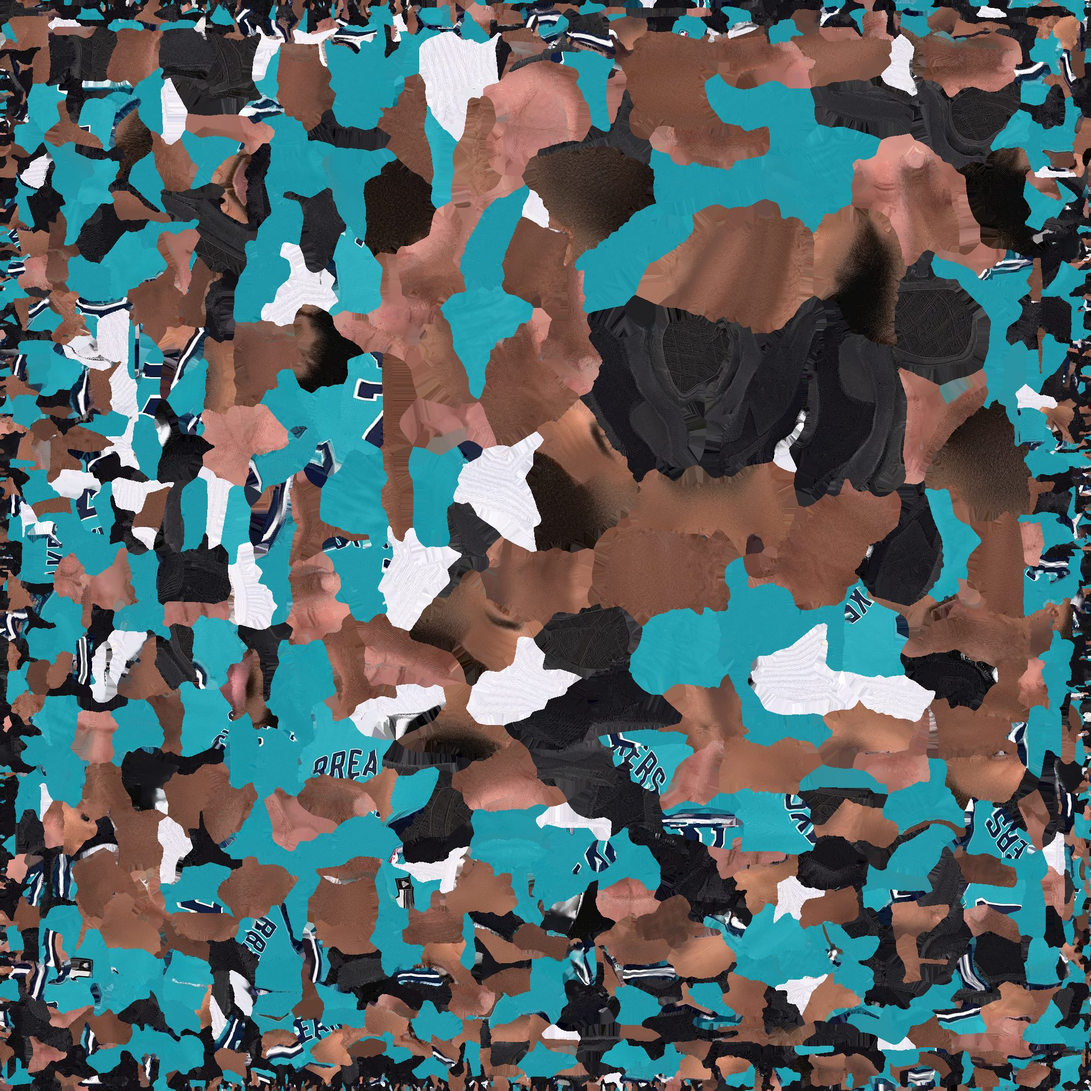
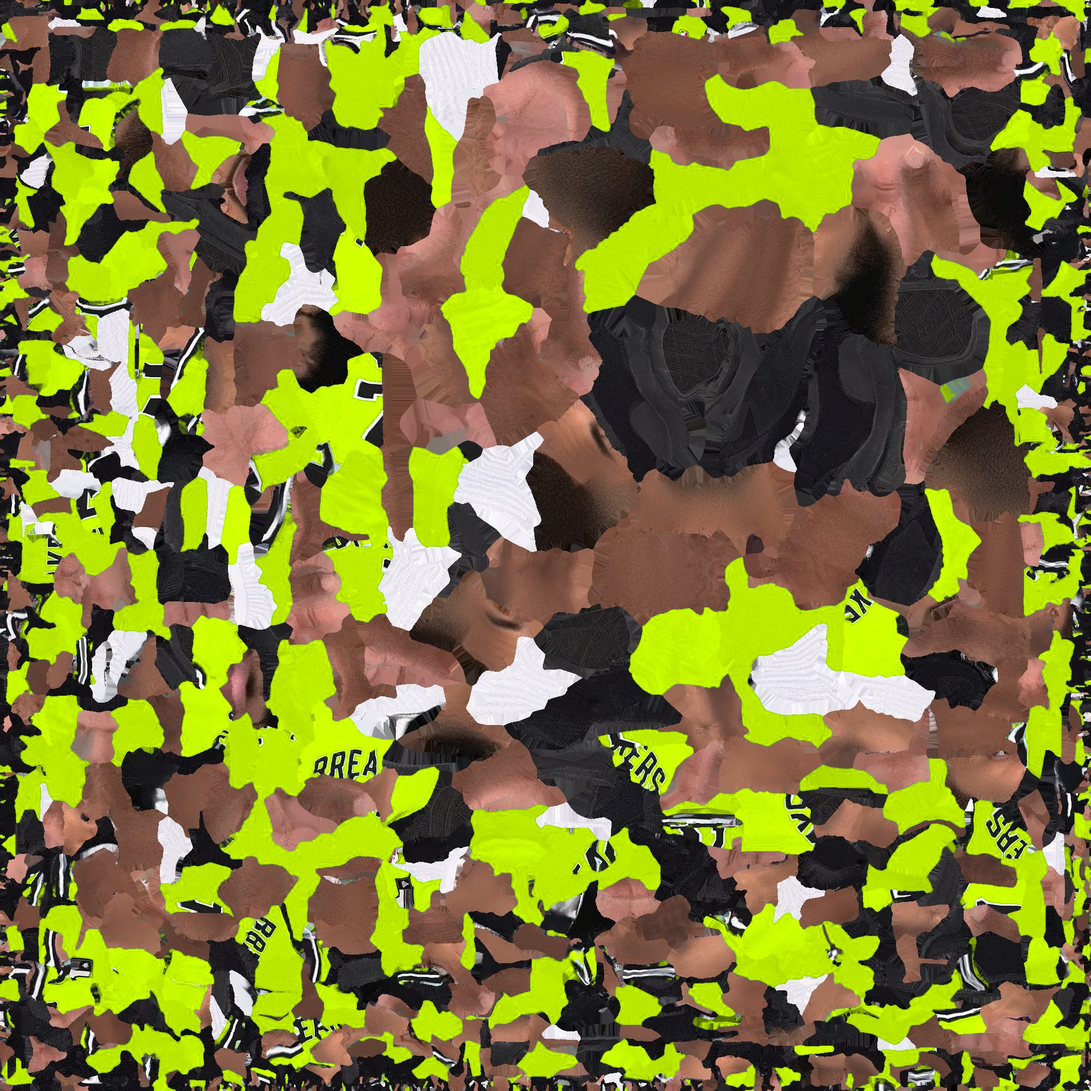
Hoops: Livewire branding (yellow and black)
Your team becomes Livewire: brand yellow #CBFE00 and black across the UI
accent, buttons, scorebug and player ring; Livewire's wordmark on the
title screen, LED boards, sidelines and baseline; its mark at centre
court and as the team badge; a black key and apron. Morrow's kit, the
cover art and the portrait are recoloured from the old teal kit to
yellow and black (the chest lettering still reads the old team name).

Claude-Session: https://claude.ai/code/session_01A6QokmjSrtzSTHC6R9iMnj

diff --git a/hardwood/js/arena.js b/hardwood/js/arena.js
@@ -4,6 +4,7 @@
 import * as THREE from 'three';
 import { Reflector } from 'three/addons/objects/Reflector.js';
 import { RoundedBoxGeometry } from 'three/addons/geometries/RoundedBoxGeometry.js';
+import { BRAND } from './data.js';
 
 export const COURT = {
   halfW: 7.62,           // sideline x
@@ -93,6 +94,20 @@ const ReflectShader = {
     }`,
 };
 
+// draw the Livewire wordmark centred at (cx, cy), h pixels tall
+let _wm = null;
+function drawWordmark(ctx, cx, cy, h, color) {
+  const W = BRAND.wordmark;
+  if (!_wm) _wm = new Path2D(W.d);
+  const sc = h / W.h;
+  ctx.save();
+  ctx.translate(cx - (W.w * sc) / 2, cy - h / 2);
+  ctx.scale(sc, sc);
+  ctx.fillStyle = color;
+  ctx.fill(_wm);
+  ctx.restore();
+}
+
 // ---------- court markings canvas ----------
 const MK = { x0: -9, z0: -2.5, size: 18, px: 2048 };
 function drawCourt(ctx, home, logoImg) {
@@ -109,9 +124,9 @@ function drawCourt(ctx, home, logoImg) {
   ctx.fillRect(X(COURT.halfW), 0, MK.px, MK.px);
   ctx.globalAlpha = 1;
 
-  // painted key
-  ctx.globalAlpha = 0.86;
-  ctx.fillStyle = home.primary;
+  // painted key (a branded home team paints it in its dark colour)
+  ctx.globalAlpha = home.brand ? 0.92 : 0.86;
+  ctx.fillStyle = home.brand ? home.secondary : home.primary;
   ctx.fillRect(X(-COURT.keyW / 2), Z(0), COURT.keyW * k, COURT.ftZ * k);
   ctx.globalAlpha = 1;
 
@@ -119,45 +134,40 @@ function drawCourt(ctx, home, logoImg) {
   ctx.save();
   ctx.beginPath();
   ctx.arc(X(0), Z(COURT.halfLen), 1.83 * k, 0, Math.PI * 2);
-  ctx.globalAlpha = 0.85;
-  ctx.fillStyle = home.primary;
+  ctx.globalAlpha = home.brand ? 0.94 : 0.85;
+  ctx.fillStyle = home.brand ? home.secondary : home.primary;
   ctx.fill();
   ctx.globalAlpha = 1;
   if (logoImg) {
-    const s = 3.1 * k;
-    ctx.drawImage(logoImg, X(0) - s / 2, Z(COURT.halfLen) - s / 2, s, s);
+    // fit inside the circle, keeping the image's own proportions
+    const s = (home.brand ? 2.3 : 3.1) * k, ar = logoImg.width / logoImg.height || 1;
+    const w = ar >= 1 ? s : s * ar, h = ar >= 1 ? s / ar : s;
+    ctx.drawImage(logoImg, X(0) - w / 2, Z(COURT.halfLen) - h / 2, w, h);
   }
   ctx.restore();
 
   // baseline apron wordmark
-  ctx.save();
-  ctx.fillStyle = 'rgba(255,255,255,0.92)';
-  ctx.font = `900 ${Math.round(1.25 * k)}px "Saira Extra Condensed", "Arial Narrow", sans-serif`;
-  ctx.textAlign = 'center';
-  ctx.textBaseline = 'middle';
-  ctx.fillText(home.city.toUpperCase(), X(-4.4), Z(-1.25));
-  ctx.fillText(home.name.toUpperCase(), X(4.4), Z(-1.25));
-  ctx.restore();
+  if (home.brand) {
+    for (const x of [-4.4, 4.4]) drawWordmark(ctx, X(x), Z(-1.25), 0.85 * k, BRAND.yellow);
+  } else {
+    ctx.save();
+    ctx.fillStyle = 'rgba(255,255,255,0.92)';
+    ctx.font = `900 ${Math.round(1.25 * k)}px "Saira Extra Condensed", "Arial Narrow", sans-serif`;
+    ctx.textAlign = 'center';
+    ctx.textBaseline = 'middle';
+    ctx.fillText(home.city.toUpperCase(), X(-4.4), Z(-1.25));
+    ctx.fillText(home.name.toUpperCase(), X(4.4), Z(-1.25));
+    ctx.restore();
+  }
 
   // sideline wordmarks (read from the court)
-  ctx.save();
-  ctx.fillStyle = 'rgba(255,255,255,0.55)';
-  ctx.font = `800 ${Math.round(0.7 * k)}px "Saira Extra Condensed", "Arial Narrow", sans-serif`;
-  ctx.textAlign = 'center';
-  ctx.textBaseline = 'middle';
-  ctx.translate(X(-8.3), Z(7));
-  ctx.rotate(-Math.PI / 2);
-  ctx.fillText('HARDWOOD LEAGUE', 0, 0);
-  ctx.restore();
-  ctx.save();
-  ctx.fillStyle = 'rgba(255,255,255,0.55)';
-  ctx.font = `800 ${Math.round(0.7 * k)}px "Saira Extra Condensed", "Arial Narrow", sans-serif`;
-  ctx.textAlign = 'center';
-  ctx.textBaseline = 'middle';
-  ctx.translate(X(8.3), Z(7));
-  ctx.rotate(Math.PI / 2);
-  ctx.fillText('HARDWOOD LEAGUE', 0, 0);
-  ctx.restore();
+  for (const side of [-1, 1]) {
+    ctx.save();
+    ctx.translate(X(side * 8.3), Z(7));
+    ctx.rotate(side * Math.PI / 2);
+    drawWordmark(ctx, 0, 0, 0.5 * k, 'rgba(203,254,0,0.9)');
+    ctx.restore();
+  }
 
   // lines
   ctx.strokeStyle = 'rgba(255,255,255,0.96)';
@@ -206,11 +216,12 @@ function makeLed(w, h, home, away, pxW = 2048) {
   const t = new THREE.CanvasTexture(c);
   t.colorSpace = THREE.SRGBColorSpace;
   t.wrapS = THREE.RepeatWrapping;
+  const teamName = (t) => (t.city ? t.city + ' ' : '') + t.name;
   const msgs = [
-    [home.city.toUpperCase() + ' ' + home.name.toUpperCase(), home.primary],
-    ['HARDWOOD LEAGUE', '#ffffff'],
-    [away.city.toUpperCase() + ' ' + away.name.toUpperCase(), away.primary],
+    [home.brand ? BRAND : teamName(home).toUpperCase(), home.brand ? BRAND.yellow : home.primary],
     ['1 ON 1 · HALF COURT', '#ffffff'],
+    [teamName(away).toUpperCase(), away.primary],
+    [BRAND, BRAND.yellow],
   ];
   const draw = (hot = 0) => {
     g.fillStyle = '#05060a';
@@ -227,8 +238,11 @@ function makeLed(w, h, home, away, pxW = 2048) {
       grd.addColorStop(1, 'rgba(255,255,255,0.02)');
       g.fillStyle = grd;
       g.fillRect(seg * i, 0, seg, c.height);
-      g.fillStyle = hot ? '#ffffff' : col;
-      g.fillText(txt, cx, c.height * 0.54);
+      if (txt === BRAND) drawWordmark(g, cx, c.height * 0.52, c.height * 0.5, hot ? '#ffffff' : col);
+      else {
+        g.fillStyle = hot ? '#ffffff' : col;
+        g.fillText(txt, cx, c.height * 0.54);
+      }
     });
     // LED pixel grid
     g.fillStyle = 'rgba(0,0,0,0.35)';
@@ -326,7 +340,7 @@ export async function buildArena(scene, renderer, { home, away, quality }) {
   // markings
   const mkCanvas = document.createElement('canvas');
   mkCanvas.width = mkCanvas.height = MK.px;
-  const logoImg = await loadImage(home.logo);
+  const logoImg = await loadImage(home.brand ? 'img/livewire-mark.png' : home.logo);
   try { await document.fonts.load('900 40px "Saira Extra Condensed"'); } catch (e) { /* fallback font */ }
   drawCourt(mkCanvas.getContext('2d'), home, logoImg);
   const mkTex = new THREE.CanvasTexture(mkCanvas);

diff --git a/hardwood/index.html b/hardwood/index.html
@@ -19,8 +19,9 @@
   --line: rgba(255, 255, 255, 0.13);
   --chalk: #f1f3f6;
   --dim: #98a1b0;
-  --leather: #e8702a;
-  --leather-hi: #ff8a3d;
+  --leather: #cbfe00;       /* Livewire yellow */
+  --leather-hi: #dcff4d;
+  --brand-black: #1a1a1a;
   --green: #3ce07a;
   --led: #ff3b2f;
   --display: "Saira Extra Condensed", "Arial Narrow", "Roboto Condensed", sans-serif;
@@ -57,7 +58,7 @@ button:focus-visible { outline: 2px solid var(--leather-hi); outline-offset: 3px
 .bug .sc { font: 700 26px/1 var(--display); color: var(--led); text-shadow: 0 0 10px rgba(255,59,47,.6); font-variant-numeric: tabular-nums; }
 .bug .to { font: 700 10px/1 var(--display); letter-spacing: .14em; color: var(--dim); margin-top: 2px; }
 .status { position: absolute; top: calc(var(--sat) + 58px); left: 50%; transform: translateX(-50%);
-  font: 700 13px/1 var(--display); letter-spacing: .16em; padding: 5px 10px; background: var(--leather); color: #140a03; opacity: 0; transition: opacity .2s; }
+  font: 700 13px/1 var(--display); letter-spacing: .16em; padding: 5px 10px; background: var(--leather); color: var(--brand-black); opacity: 0; transition: opacity .2s; }
 .status.on { opacity: 1; }
 .callout { position: absolute; left: 50%; top: 30%; transform: translate(-50%, -50%) skewX(-8deg);
   font: 900 clamp(40px, 10vw, 96px)/0.9 var(--display); letter-spacing: .01em; text-transform: uppercase; white-space: nowrap;
@@ -83,8 +84,8 @@ button:focus-visible { outline: 2px solid var(--leather-hi); outline-offset: 3px
 .btns { position: absolute; right: calc(var(--sar) + 18px); bottom: calc(var(--sab) + 18px); width: 190px; height: 170px; pointer-events: none; }
 .btn { position: absolute; border-radius: 50%; display: grid; place-items: center; pointer-events: auto; touch-action: none;
   font: 800 15px/1 var(--display); letter-spacing: .12em; border: 2px solid rgba(255,255,255,.35); background: rgba(10,12,18,.55); backdrop-filter: blur(4px); -webkit-backdrop-filter: blur(4px); }
-.btn.big { width: 92px; height: 92px; right: 0; bottom: 0; background: rgba(232,112,42,.82); border-color: var(--leather-hi); color: #170a02; font-size: 18px; }
-.btn.small { width: 66px; height: 66px; right: 104px; bottom: 26px; }
+.btn.big { width: 92px; height: 92px; right: 0; bottom: 0; background: rgba(203,254,0,.86); border-color: var(--leather-hi); color: var(--brand-black); font-size: 18px; }
+.btn.small { width: 66px; height: 66px; right: 104px; bottom: 26px; background: rgba(26,26,26,.82); border-color: rgba(203,254,0,.55); color: var(--leather); }
 .btn.tiny { width: 58px; height: 58px; right: 44px; bottom: 104px; }
 .btn.down { transform: scale(.92); filter: brightness(1.25); }
 .btn.off { opacity: .35; }
@@ -98,8 +99,9 @@ button:focus-visible { outline: 2px solid var(--leather-hi); outline-offset: 3px
 .eyebrow { font: 700 13px/1 var(--display); letter-spacing: .32em; color: var(--leather-hi); text-transform: uppercase; }
 .wordmark { font: 900 clamp(64px, 15vw, 150px)/.82 var(--display); letter-spacing: -.01em; transform: skewX(-7deg); text-transform: uppercase; }
 .wordmark span { color: var(--leather); }
+.presenter { display: block; width: clamp(150px, 26vw, 250px); height: auto; color: var(--leather); }
 .row { display: flex; gap: 10px; flex-wrap: wrap; }
-.cta { font: 800 20px/1 var(--display); letter-spacing: .14em; padding: 15px 30px 14px; background: var(--leather); color: #150903; text-transform: uppercase; clip-path: polygon(8px 0, 100% 0, calc(100% - 8px) 100%, 0 100%); }
+.cta { font: 800 20px/1 var(--display); letter-spacing: .14em; padding: 15px 30px 14px; background: var(--leather); color: var(--brand-black); text-transform: uppercase; clip-path: polygon(8px 0, 100% 0, calc(100% - 8px) 100%, 0 100%); }
 .cta:active { background: var(--leather-hi); }
 .ghost { font: 700 16px/1 var(--display); letter-spacing: .14em; padding: 14px 20px 13px; border: 1px solid var(--line); text-transform: uppercase; color: var(--chalk); background: rgba(255,255,255,.04); }
 
@@ -169,6 +171,7 @@ button:focus-visible { outline: 2px solid var(--leather-hi); outline-offset: 3px
 <section class="screen title" id="scrTitle" hidden>
   <div class="art"></div>
   <div class="col">
+    <svg class="presenter" viewBox="0 0 108 21" role="img" aria-label="Livewire"><path fill="currentColor" d="M43.062 4.74h5.64L49.634 0h-10.74l-4.081 21h10.74l.9-4.74h-5.64l.66-3.42h5.34l.93-4.68h-5.34l.66-3.42ZM32.059 0l-4.35 14.4-.63 2.94h-.75l.57-2.94L28.1 0h-5.37l-1.32 21h9.27l6.84-21h-5.46ZM12.182 21h5.07L21.33 0h-5.07l-4.078 21ZM9.149 0h-5.07L-.002 21h10.47l.931-4.74H5.997L9.15 0ZM106.226 4.74l.929-4.74h-10.74l-4.08 21h10.74l.9-4.74h-5.64l.66-3.42h5.341l.93-4.68h-5.34l.66-3.42h5.64ZM90.066 10.71c1.18-.52 2.03-1.22 2.55-2.1a5.11 5.11 0 0 0 .6-1.41c.12-.511.18-1.035.179-1.56a6.404 6.404 0 0 0-.18-1.56 5.577 5.577 0 0 0-.572-1.44A4.963 4.963 0 0 0 90.604.72C89.724.24 88.655 0 87.396 0h-6.122l-4.079 20.996h5.072l1.672-8.518h.462l1.344 8.518h5.25l-1.38-8.635-1.35-.45v-.68a8.738 8.738 0 0 0 1.801-.521Zm-3.6-6.06c.32-.008.638.054.932.181.258.118.47.32.599.573.076.13.127.271.15.42.041.146.061.298.06.45a2.32 2.32 0 0 1-.09.66c-.048.203-.13.397-.24.573-.208.348-.51.629-.87.811a2.741 2.741 0 0 1-1.35.3h-.955l.78-3.96.984-.008ZM74.263 0l-4.08 21h5.07l4.081-21h-5.071ZM67.617 0l-3.06 12.361-1.11 5.009h-.75l.96-5.009L65.246 0h-6.66l-3.21 12.361-.991 5.009h-.75l.84-5.009L56.215 0h-5.039l-2.55 21h8.19l2.999-12.18 1.021-5.159h.75l-1.02 5.16L58.916 21h8.16l5.61-21h-5.07Z"/></svg>
     <h1 class="wordmark">Hoo<span>ps</span></h1>
     <div class="row"><button class="cta" id="goPlay">Start</button></div>
   </div>

diff --git a/hardwood/js/data.js b/hardwood/js/data.js
@@ -1,11 +1,20 @@
 // League data: 8 fictional teams, one star player each.
 // Ratings are 0-100. Heights in metres.
 
+// Livewire (livewire.group) branding: your team, the arena boards, the UI accent.
+export const BRAND = {
+  name: 'Livewire',
+  yellow: '#CBFE00',
+  black: '#1A1A1A',
+  // the LIVEWIRE wordmark from livewire.group, as an SVG path in a 108 x 21 box
+  wordmark: { w: 108, h: 21, d: 'M43.062 4.74h5.64L49.634 0h-10.74l-4.081 21h10.74l.9-4.74h-5.64l.66-3.42h5.34l.93-4.68h-5.34l.66-3.42ZM32.059 0l-4.35 14.4-.63 2.94h-.75l.57-2.94L28.1 0h-5.37l-1.32 21h9.27l6.84-21h-5.46ZM12.182 21h5.07L21.33 0h-5.07l-4.078 21ZM9.149 0h-5.07L-.002 21h10.47l.931-4.74H5.997L9.15 0ZM106.226 4.74l.929-4.74h-10.74l-4.08 21h10.74l.9-4.74h-5.64l.66-3.42h5.341l.93-4.68h-5.34l.66-3.42h5.64ZM90.066 10.71c1.18-.52 2.03-1.22 2.55-2.1a5.11 5.11 0 0 0 .6-1.41c.12-.511.18-1.035.179-1.56a6.404 6.404 0 0 0-.18-1.56 5.577 5.577 0 0 0-.572-1.44A4.963 4.963 0 0 0 90.604.72C89.724.24 88.655 0 87.396 0h-6.122l-4.079 20.996h5.072l1.672-8.518h.462l1.344 8.518h5.25l-1.38-8.635-1.35-.45v-.68a8.738 8.738 0 0 0 1.801-.521Zm-3.6-6.06c.32-.008.638.054.932.181.258.118.47.32.599.573.076.13.127.271.15.42.041.146.061.298.06.45a2.32 2.32 0 0 1-.09.66c-.048.203-.13.397-.24.573-.208.348-.51.629-.87.811a2.741 2.741 0 0 1-1.35.3h-.955l.78-3.96.984-.008ZM74.263 0l-4.08 21h5.07l4.081-21h-5.071ZM67.617 0l-3.06 12.361-1.11 5.009h-.75l.96-5.009L65.246 0h-6.66l-3.21 12.361-.991 5.009h-.75l.84-5.009L56.215 0h-5.039l-2.55 21h8.19l2.999-12.18 1.021-5.159h.75l-1.02 5.16L58.916 21h8.16l5.61-21h-5.07Z' },
+};
+
 export const TEAMS = [
   {
-    id: 'breakers', city: 'Bay City', name: 'Breakers', abbr: 'BAY',
-    primary: '#0FA3B1', secondary: '#0B2545', jersey: '#11A8B4', letters: '#0B2545',
-    logo: 'img/logo0.png', portrait: 'img/p0.jpg', model: 'models/morrow.json',
+    id: 'livewire', city: '', name: 'Livewire', abbr: 'LVW', brand: true,
+    primary: '#CBFE00', secondary: '#1A1A1A', jersey: '#CBFE00', letters: '#1A1A1A',
+    logo: 'img/logo-livewire.png', portrait: 'img/p0.jpg', model: 'models/morrow.json',
     player: {
       first: 'Kade', last: 'Morrow', num: 7, pos: 'PG', height: 1.91,
       skin: '#5b3a29', hair: { style: 'fade', color: '#120d0b' }, beard: '#120d0b',

diff --git a/hardwood/README.md b/hardwood/README.md
@@ -5,7 +5,8 @@ A 1-on-1 half-court basketball game for phones, built with three.js. Open `index
 ## What's in it
 
 - **Arena**: a 3D half court with glossy floor reflections, a verlet-cloth net, a rim and glass that the ball physically bounces off, LED boards and a shot clock. The stands, crowd and hardwood are photo textures.
-- **Players**: two fictional players, Morrow (you) and Varga (CPU). Each body is a textured, rigged 3D model made from a generated full-body photo. Models ship as glTF JSON plus a JPEG texture (`models/`). If a model fails to load, a built-in body is used instead. The data for six more players is still in `js/data.js`, but there is no picker for now.
+- **Branding**: Livewire (livewire.group). Your team, the arena boards, the court and the UI use Livewire's yellow `#CBFE00` and black, its wordmark and its mark (`BRAND` in `js/data.js`, `img/logo-livewire.png`, `img/livewire-mark.png`). Your player's kit, the cover art and the portrait were recoloured from the original teal kit by `raw/hardwood/recolor_livewire.py`, so the chest lettering still carries the old team name.
+- **Players**: two fictional players, Morrow (you, Livewire) and Varga (CPU). Each body is a textured, rigged 3D model made from a generated full-body photo. Models ship as glTF JSON plus a JPEG texture (`models/`). If a model fails to load, a built-in body is used instead. The data for six more players is still in `js/data.js`, but there is no picker for now.
 - **Motion**: running, walking, backpedalling, defensive slides, stances and jumps come from motion-capture clips (`models/motion.json`). The clips are blended by speed and direction and retargeted onto each body. A procedural rig handles what the library doesn't cover: dribbling, shooting, layups, dunks, steals, and arm IK that keeps the hands on the ball.
 - **Gameplay**: timed jump shots with a release meter, layups and dunks, crossovers, spins and step-backs, steals, blocks, rebounds, a 12-second shot clock, clearing the ball, and games to 11. The front screen has one button: Start.
 - **Audio**: recorded sound effects generated with ElevenLabs (`sfx/`):
